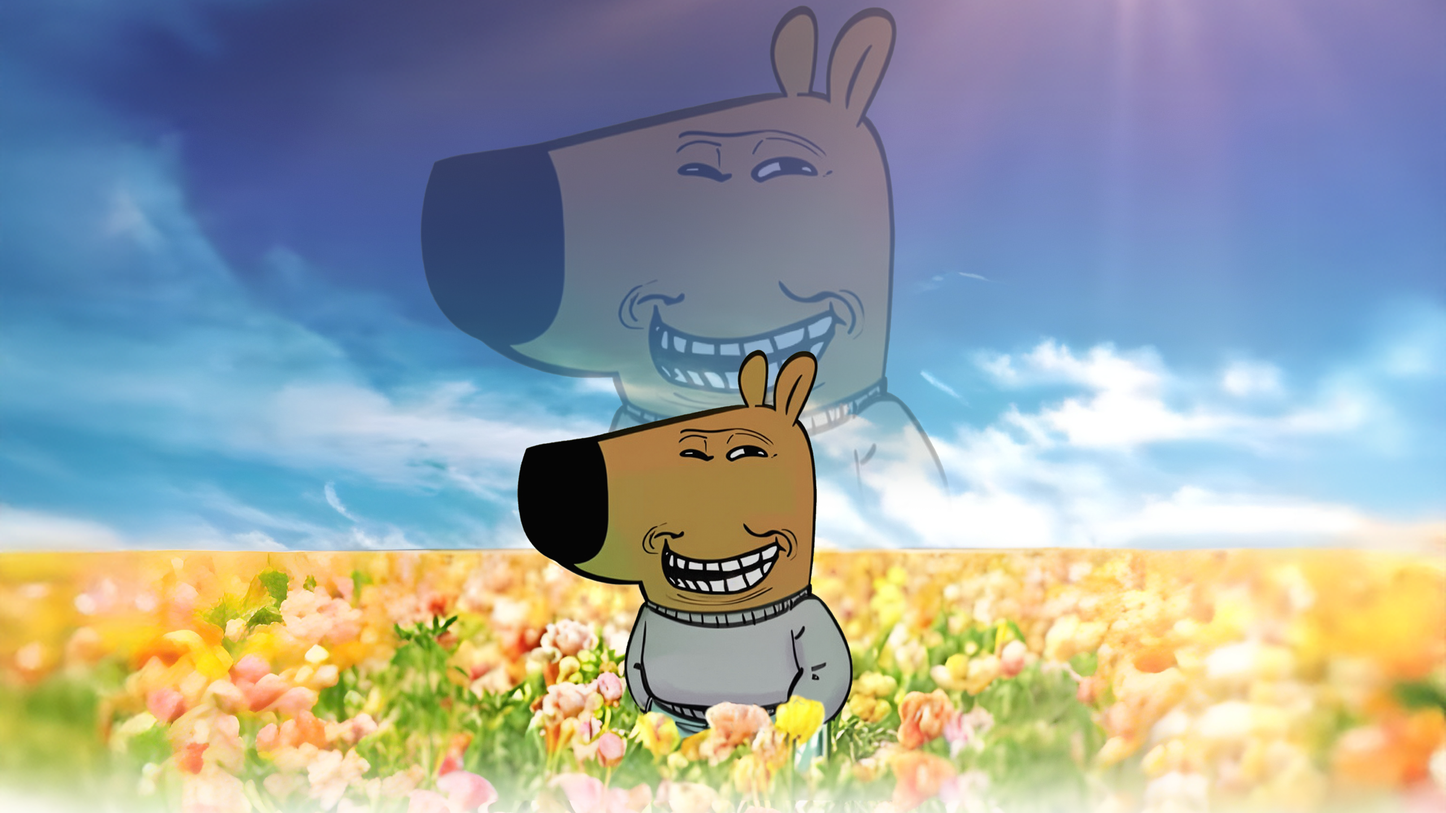
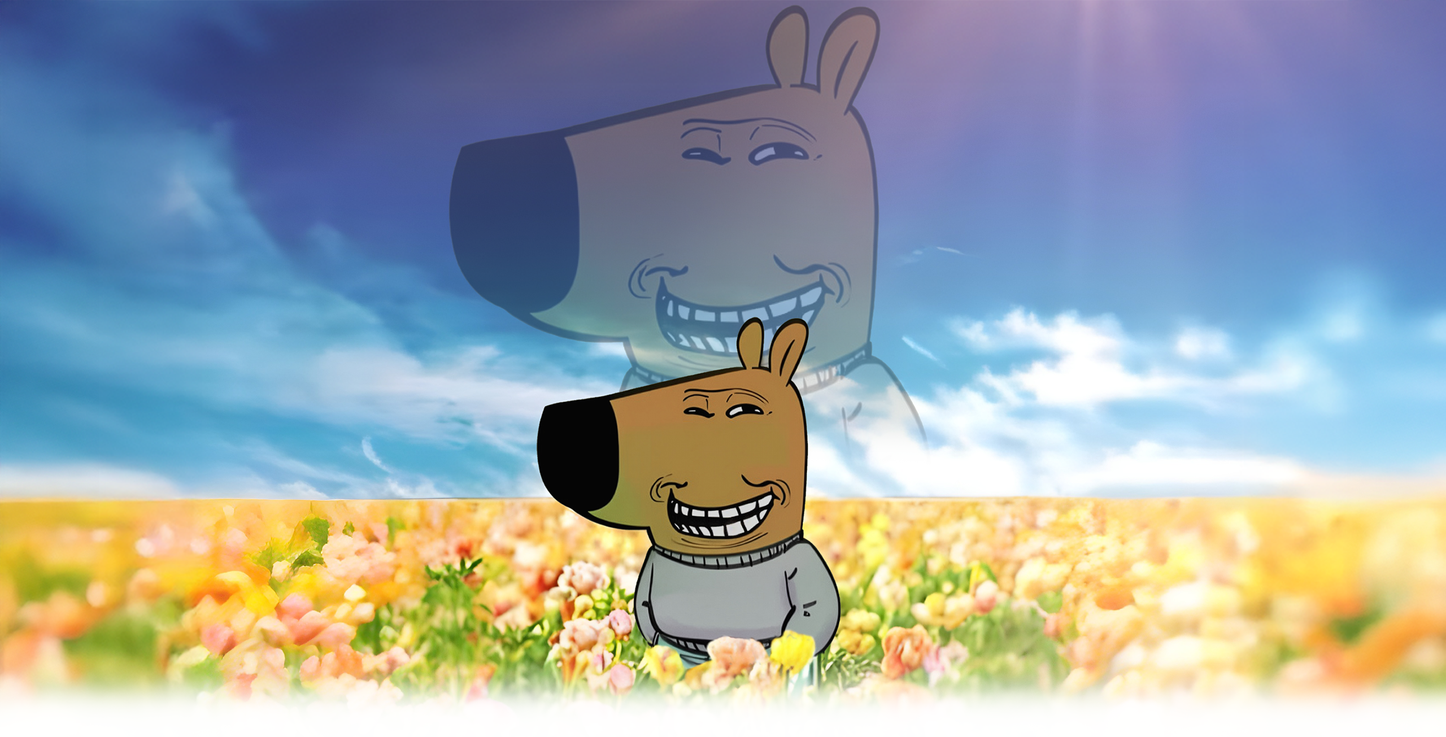
Add mobile burger menu and enhance footer navigation functionality
- Implemented a mobile burger menu for improved navigation on smaller screens.
- Updated footer navigation items to support smooth scrolling to sections and external links.
- Adjusted styles for mobile and desktop views, ensuring responsive design.
- Enhanced footer item interactions with cursor changes and click events.

diff --git a/styles.css b/styles.css
@@ -613,10 +613,15 @@ body {
 
 .block-1 {
     color: white;
+    position: relative;
+    width: 100vw;
+    height: 100vh;
+    min-height: 100vh;
+    overflow: hidden;
 }
 
 .block-2 {
-    background: #f9fafb;
+    background: white;
 }
 
 .block-3 {
@@ -631,8 +636,9 @@ body {
 /* Block 1: Chill Guy Scene */
 .chill-guy-scene {
     position: relative;
-    width: 100%;
-    height: 80vh;
+    width: 100vw;
+    height: 100vh;
+    min-height: 100vh;
     overflow: hidden;
 }
 
@@ -648,8 +654,14 @@ body {
 .background-image img {
     width: 100%;
     height: 100%;
-    object-fit: contain;
+    object-fit: cover;
     object-position: center;
+    display: block;
+}
+
+/* Desktop background */
+.background-image img {
+    content: url('images/bg.png');
 }
 
 .floating-icons {
@@ -677,33 +689,33 @@ body {
 }
 
 .social-icon {
-    width: 100%;
-    height: 100%;
+    width: 90%;
+    height: 90%;
     object-fit: contain;
     filter: drop-shadow(0 4px 8px rgba(0, 0, 0, 0.2));
 }
 
 .icon-container:nth-child(1) {
-    bottom: 5%;
-    left: 18%;
+    bottom: 16%;
+    left: 20%;
     animation-delay: 0s;
 }
 
 .icon-container:nth-child(2) {
-    bottom: 19%;
-    left: 32%;
+    bottom: 16%;
+    left: 34%;
     animation-delay: 1s;
 }
 
 .icon-container:nth-child(3) {
-    bottom: 19%;
-    left: 65%;
+    bottom: 16%;
+    left: 64%;
     animation-delay: 2s;
 }
 
 .icon-container:nth-child(4) {
-    bottom: 7%;
-    right: 19%;
+    bottom: 16%;
+    right: 20%;
     animation-delay: 1.5s;
 }
 
@@ -929,7 +941,6 @@ body {
 }
 
 .footer-nav-item:hover {
-    color: white;
     background: rgba(255, 255, 255, 0.1);
     transform: translateY(-2px);
 }
@@ -1023,7 +1034,12 @@ body {
     }
     
     .chill-guy-scene {
-        height: 50vh;
+        height: 110vh;
+    }
+    
+    /* Mobile background */
+    .background-image img {
+        content: url('images/mob.png');
     }
     
     .icon-container {
@@ -1032,23 +1048,23 @@ body {
     }
     
     .icon-container:nth-child(1) {
-        bottom: 20%;
-        left: 15%;
+        bottom: 12%;
+        left: 10%;
     }
     
     .icon-container:nth-child(2) {
-        bottom: 25%;
+        bottom: 12%;
         left: 30%;
     }
     
     .icon-container:nth-child(3) {
-        bottom: 30%;
-        left: 45%;
+        bottom: 12%;
+        left: 50%;
     }
     
     .icon-container:nth-child(4) {
-        bottom: 20%;
-        right: 20%;
+        bottom: 12%;
+        left: 70%;
     }
 
     .section-header h2 {
@@ -1081,14 +1097,64 @@ body {
     }
 
     .footer-nav {
-        gap: 1.5rem;
+        gap: 2.5rem;
         flex-direction: column;
     }
     
     .footer-nav-item {
-        width: 100%;
-        text-align: center;
-        padding: 1rem;
+        width: 61%;
+        text-align: start;
+        padding: 2rem;
+    }
+
+    .desktop-footer-nav {
+        display: none !important;
+    }
+    .mobile-burger-menu {
+        display: flex;
+        flex-direction: column;
+        align-items: flex-end;
+        position: fixed;
+        top: 0;
+        right: 0;
+        left: auto;
+        width: 100vw;
+        z-index: 2000;
+        background: transparent;
+        padding: 10px 10px 0 10px;
+    }
+    .mobile-burger-menu .hamburger {
+        background: none;
+        border: none;
+        padding: 0;
+        margin: 0;
+        z-index: 2100;
+        align-self: flex-end;
+    }
+    .mobile-footer-nav {
+        display: block;
+        width: 80vw;
+        max-width: 350px;
+        background: white;
+        box-shadow: 0 4px 24px rgba(0,0,0,0.08);
+        padding: 1.5rem 0 1.5rem 0;
+        position: fixed;
+        top: 0;
+        right: 0;
+        height: 100vh;
+        transform: translateX(100%);
+        transition: transform 0.35s cubic-bezier(0.4,0,0.2,1);
+        z-index: 2050;
+        border-radius: 12px 0 0 12px;
+        overflow-y: auto;
+    }
+    .mobile-burger-menu.active .mobile-footer-nav {
+        transform: translateX(0);
+    }
+}
+@media (min-width: 769px) {
+    .mobile-burger-menu {
+        display: none !important;
     }
 }
 

diff --git a/script.js b/script.js
@@ -48,14 +48,29 @@ document.querySelectorAll('a[href^="#"]').forEach(anchor => {
 document.addEventListener('DOMContentLoaded', () => {
     const footerNavItems = document.querySelectorAll('.footer-nav-item');
     footerNavItems.forEach(item => {
-        if (!item.querySelector('a')) { // Only for numbered items, not "How to Buy"
+        const numberSpan = item.querySelector('.nav-number');
+        if (numberSpan && (numberSpan.textContent.trim() === '1' || numberSpan.textContent.trim() === '4')) {
+            item.style.cursor = 'pointer';
+            item.addEventListener('click', (e) => { e.preventDefault(); });
+        } else if (numberSpan && numberSpan.textContent.trim() === '2') {
             item.addEventListener('click', () => {
-                const number = item.querySelector('.nav-number').textContent;
-                const targetId = `block${number}`;
-                const targetElement = document.getElementById(targetId);
+                const targetElement = document.getElementById('block1');
                 if (targetElement) {
                     targetElement.scrollIntoView({ behavior: 'smooth' });
                 }
+            });
+        } else if (numberSpan && numberSpan.textContent.trim() === '3') {
+            item.addEventListener('click', () => {
+                const targetElement = document.getElementById('block2');
+                if (targetElement) {
+                    targetElement.scrollIntoView({ behavior: 'smooth' });
+                }
+            });
+        } else if (item.textContent.trim().toLowerCase().includes('how to buy')) {
+            item.style.cursor = 'pointer';
+            item.addEventListener('click', (e) => {
+                e.preventDefault();
+                window.open('https://jup.ag', '_blank', 'noopener');
             });
         }
     });
@@ -258,3 +273,19 @@ style.textContent = `
     }
 `;
 document.head.appendChild(style); 
+
+// Mobile burger menu toggle for footer nav
+const mobileBurgerMenu = document.querySelector('.mobile-burger-menu');
+if (mobileBurgerMenu) {
+    const burgerBtn = mobileBurgerMenu.querySelector('.hamburger');
+    const mobileFooterNav = mobileBurgerMenu.querySelector('.mobile-footer-nav');
+    burgerBtn.addEventListener('click', () => {
+        mobileBurgerMenu.classList.toggle('active');
+    });
+    // Закрытие меню при клике на пункт
+    mobileFooterNav.querySelectorAll('.footer-nav-item').forEach(item => {
+        item.addEventListener('click', () => {
+            mobileBurgerMenu.classList.remove('active');
+        });
+    });
+} 

diff --git a/index.html b/index.html
@@ -10,6 +10,33 @@
 
 </head>
 <body>
+    <!-- Mobile Burger Menu -->
+    <div class="mobile-burger-menu">
+        <button class="hamburger" aria-label="Open menu">
+            <img src="images/icons/burger.png" alt="Menu" style="width:40px;height:40px;">
+        </button>
+        <nav class="mobile-footer-nav">
+            <div class="footer-nav">
+                <div class="footer-nav-item">
+                    <span class="nav-number">1</span>
+                    <span class="nav-label">one</span>
+                </div>
+                <div class="footer-nav-item">
+                    <span class="nav-number">2</span>
+                    <span class="nav-label">two</span>
+                </div>
+                <div class="footer-nav-item">
+                    <span class="nav-number">3</span>
+                    <span class="nav-label">three</span>
+                </div>
+                <div class="footer-nav-item">
+                    <span class="nav-number">4</span>
+                    <span class="nav-label">four</span>
+                </div>
+                <a href="#swap" class="footer-nav-item">How to Buy</a>
+            </div>
+        </nav>
+    </div>
 
     <!-- Block 1: Chill Guy Scene -->
     <section id="block1" class="block block-1">
@@ -51,7 +78,7 @@
     <!-- Footer -->
     <footer class="footer">
         <div class="container">
-            <div class="footer-nav">
+            <div class="footer-nav desktop-footer-nav">
                 <div class="footer-nav-item">
                     <span class="nav-number">1</span>
                     <span class="nav-label">one</span>
